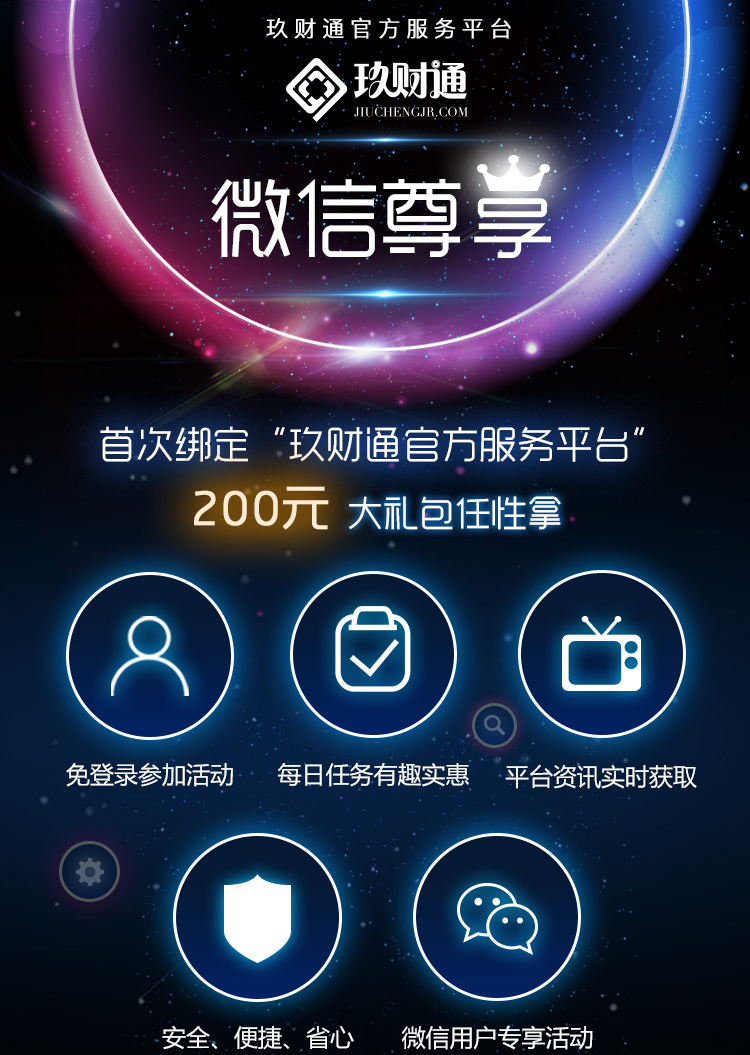
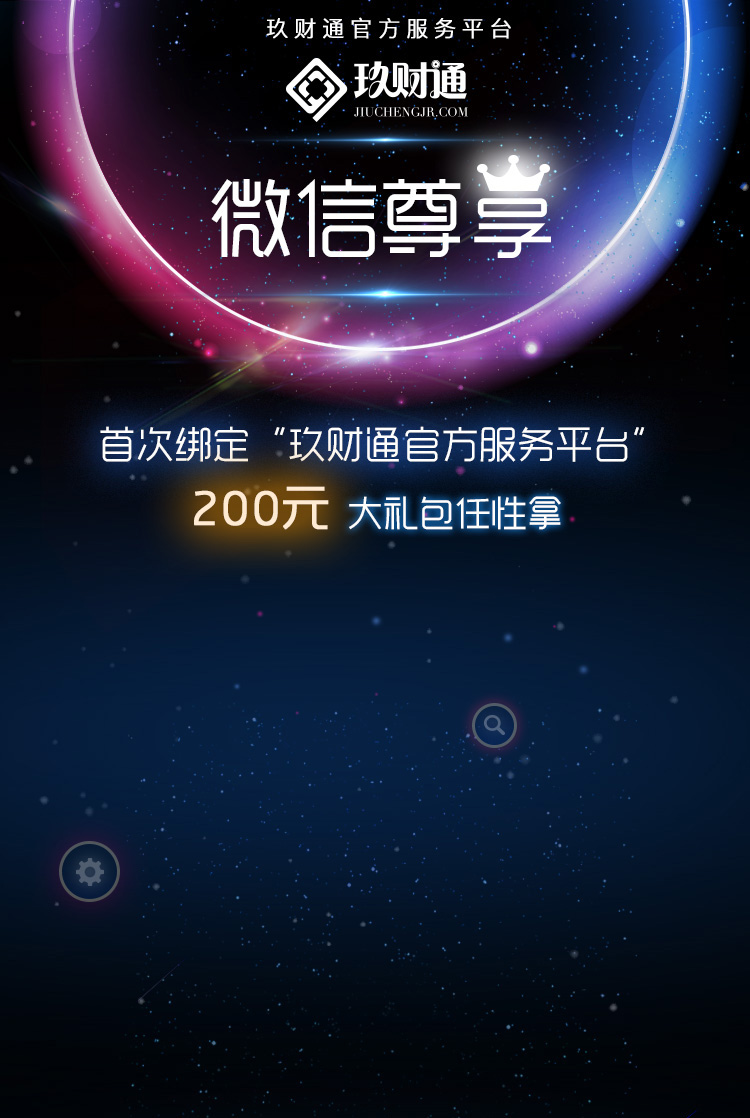
效果

diff --git a/mobile/index.html b/mobile/index.html
@@ -31,6 +31,25 @@
        }
     .Slide5{ background: url("image/con5.jpg") no-repeat; background-size: 100% 100%; }
     .swiper-slide img{width: 100%; height: auto;}
+    .img-ul li{ position: absolute; width: 2.07rem; list-style: none; opacity: 0;}
+    .animation{
+      animation-name:fadeIn;
+      -webkit-animation-name:fadeIn;
+      animation-duration:1s;  
+      -webkit-animation-duration:1s;
+      animation-fill-mode:forwards;
+      -webkit-animation-fill-mode:forwards;
+    }
+    .img-ul li.con1-img1{top: 5.8rem;left: 0.5rem;}
+    .img-ul li.con1-img2{top: 5.8rem;left: 2.7rem;}
+    .img-ul li.con1-img3{top: 5.8rem;right: 0.5rem;}
+    .img-ul li.con1-img4{top: 8.2rem;left: 1.5rem;}
+    .img-ul li.con1-img5{top: 8.2rem;right: 1.5rem;}
+    .delay1{animation-delay: 0.5s;    -webkit-animation-delay: 0.5s;}
+    .delay2{animation-delay: 1s;    -webkit-animation-delay: 1s;}
+    .delay3{animation-delay: 1.5s;    -webkit-animation-delay: 1.5s;}
+    .delay4{animation-delay: 2s;    -webkit-animation-delay: 2s;}
+    .delay5{animation-delay: 2.5s;    -webkit-animation-delay: 2.5s;}
     .Slide5 h2{ font-size: 0; }
     .con5-p1{ font-size: 0.26rem; line-height: 200%;  color: #fff;padding:0 0.62rem 0.5rem; margin: 0; }
     .con5-p2{font-size: 0.22rem; color: #00d8ff; text-align: center;padding: 0; margin: 0; line-height: 1rem;}
@@ -47,6 +66,16 @@
   		-webkit-animation: updown 1s ease-in-out alternate  infinite;
   		-o-animation: updown 1s ease-in-out alternate  infinite;
    	}
+    @keyframes fadeIn{
+      0%{opacity: 0}
+      100%{opacity: 1;}
+    } 
+    @-webkit-keyframes fadeIn{
+      0%{opacity: 0}
+      100%{opacity: 1;}
+    } 
+
+
    	@keyframes updown{
 		0%{
 			bottom: 0.1rem;
@@ -87,7 +116,27 @@
 <body>
 	 <div class="swiper-container">
         <div class="swiper-wrapper">
-            <div class="swiper-slide Slide1"><img src="image/con1.jpg"><i class="con-btn arrowdown"></i></div>
+            <div class="swiper-slide Slide1">
+              <img src="image/con1.jpg">
+              <ul class="img-ul">
+                <li class="con1-img1 delay1 animation">
+                  <img src="image/con1-img1.png">
+                </li>
+                <li class="con1-img2 delay2 animation">
+                  <img src="image/con1-img2.png">
+                </li>
+                <li class="con1-img3 delay3 animation">
+                  <img src="image/con1-img3.png">
+                </li>
+                <li class="con1-img4 delay4 animation">
+                  <img src="image/con1-img4.png">
+                </li>
+                <li class="con1-img5 delay5 animation">
+                  <img src="image/con1-img5.png">
+                </li>
+              </ul>
+              <i class="con-btn arrowdown"></i>
+            </div>
             <div class="swiper-slide Slide2"><img src="image/con2.jpg"><i class="con-btn arrowdown"></i></div>
             <div class="swiper-slide Slide3"><img src="image/con3.jpg"><i class="con-btn arrowdown"></i></div>
             <div class="swiper-slide Slide4"><img src="image/con4.jpg"><i class="con-btn arrowdown"></i></div>

diff --git a/index.html b/index.html
@@ -11,7 +11,7 @@
 		<li class="item2"><a href="tong/index.html" target="blank">手机站练习1</a></li>
 		<li class="item3"><a href="beiqi/html/openday.html" target="blank">手机站练习2</a></li>
 		<li class="item4"><a href="css3/index.html" target="blank">css3练习</a></li>
-		<li class="item5">手机端全屏滚动</li>
+		<li class="item5"><a href="mobile/index.html">手机端全屏滚动</a></li>
 		<li class="item6">item6</li>
 		<li class="item7">item7</li>
 		<li class="item8">item8</li>
